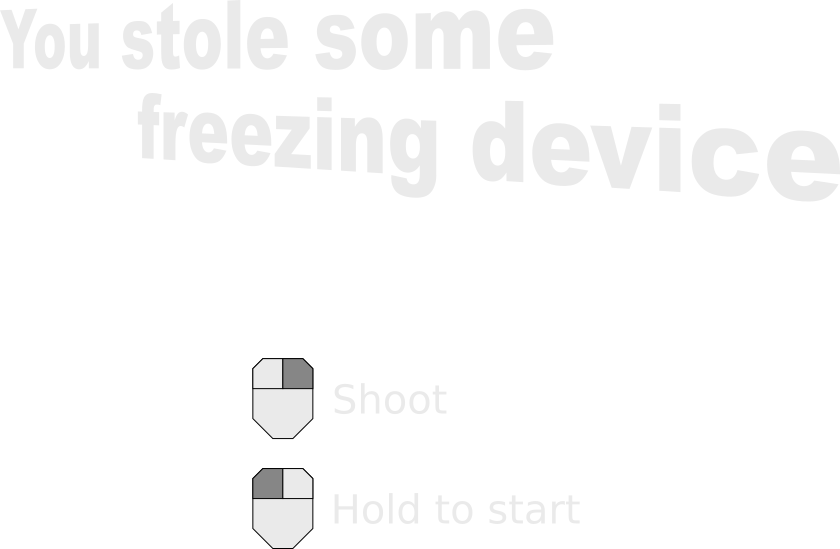
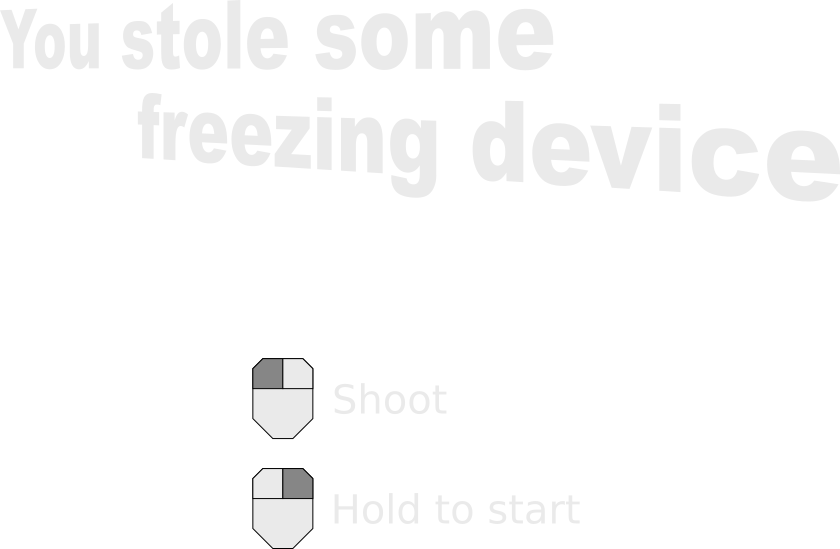
reversed fire and path controls (left/right mouse)

Changed region(s): [[0.2786, 0.8361, 0.3714, 0.929], [0.2786, 0.6503, 0.3714, 0.7122]]

diff --git a/main.js b/main.js
@@ -1038,7 +1038,7 @@ define(['platform', 'game', 'vector', 'staticcollidable', 'linesegment', 'editor
             function mousedown(button) {
                 var t = new Vector(0,0);
                 getAimPosition(t);
-                if (button === 0) {
+                if (button === 2) {
                     player.startPath(t.x,t.y);
                     game.changeState(gameplayState());
                 }
@@ -1107,7 +1107,7 @@ define(['platform', 'game', 'vector', 'staticcollidable', 'linesegment', 'editor
 
             var pause = 2000;
             var level = [
-                [pause*2, spawnEnemy(0, 0)],
+                [pause*1.5, spawnEnemy(0, 0)],
 
                 [pause, spawnEnemy(0, -150)],
                 [500, spawnEnemy(0, 150)],
@@ -1167,7 +1167,7 @@ define(['platform', 'game', 'vector', 'staticcollidable', 'linesegment', 'editor
                 // Post update
                 if (player.path) {
                     player.growPath(t.x,t.y);
-                } else if (game.mouse.buttons[2]) {
+                } else if (game.mouse.buttons[0]) {
                     player.fire(t.x,t.y);
                 }
 
@@ -1186,13 +1186,13 @@ define(['platform', 'game', 'vector', 'staticcollidable', 'linesegment', 'editor
             function mousedown(button) {
                 var t = new Vector(0,0);
                 getAimPosition(t);
-                if (button === 0) {
+                if (button === 2) {
                     player.startPath(t.x,t.y);
                 }
             }
 
             function mouseup(button) {
-                if (button === 0) {
+                if (button === 2) {
                     player.endPath();
                 }
             }
